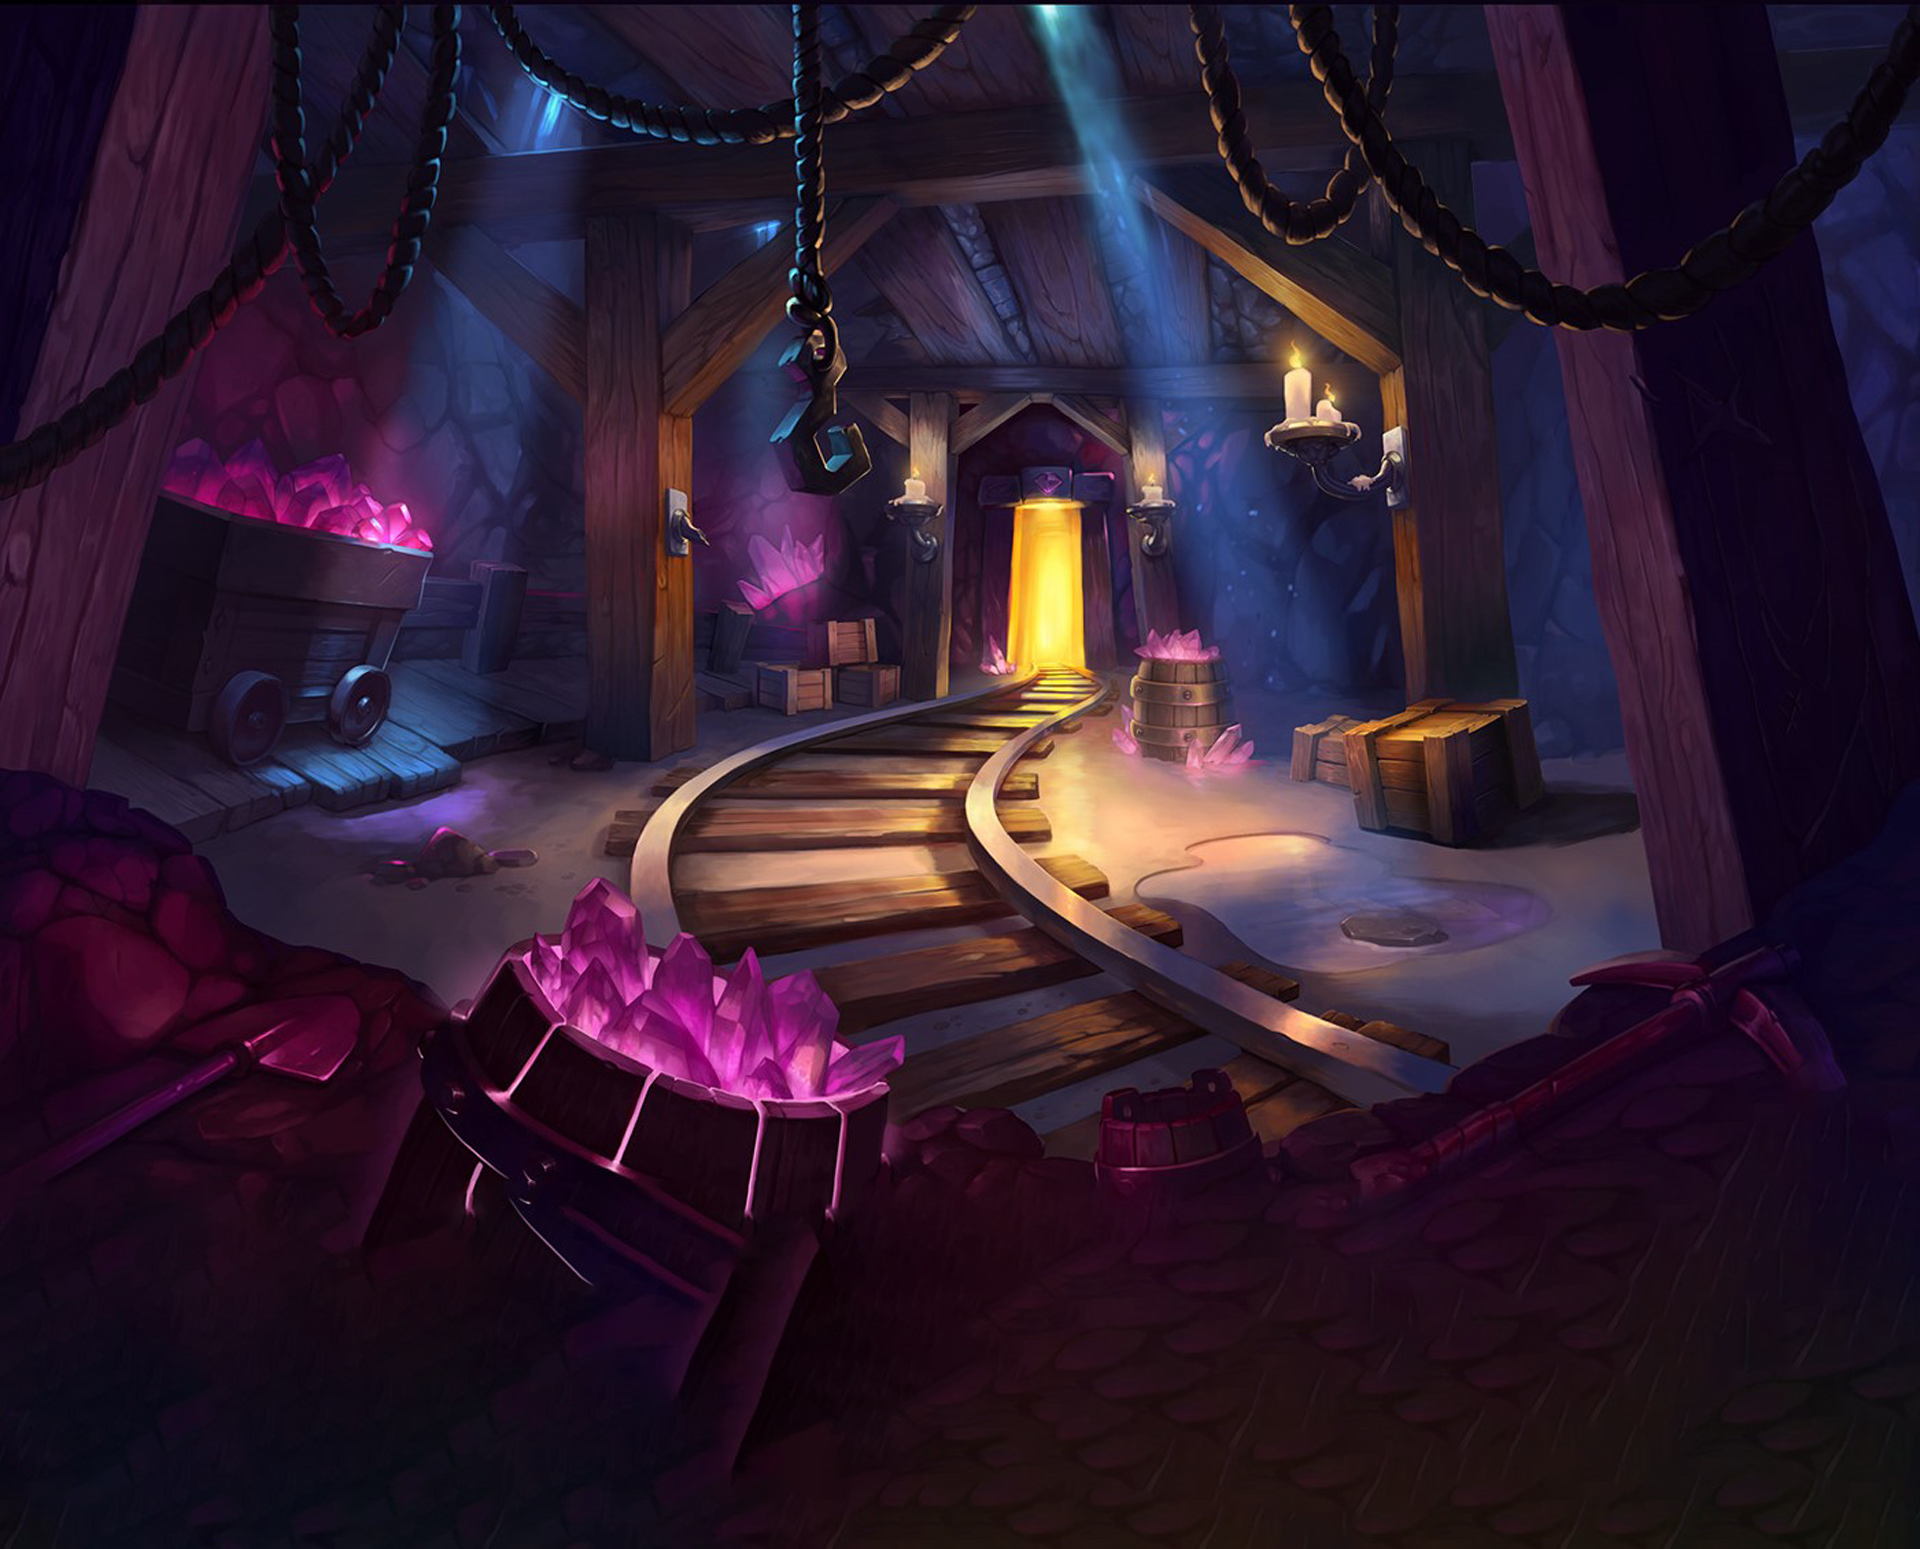
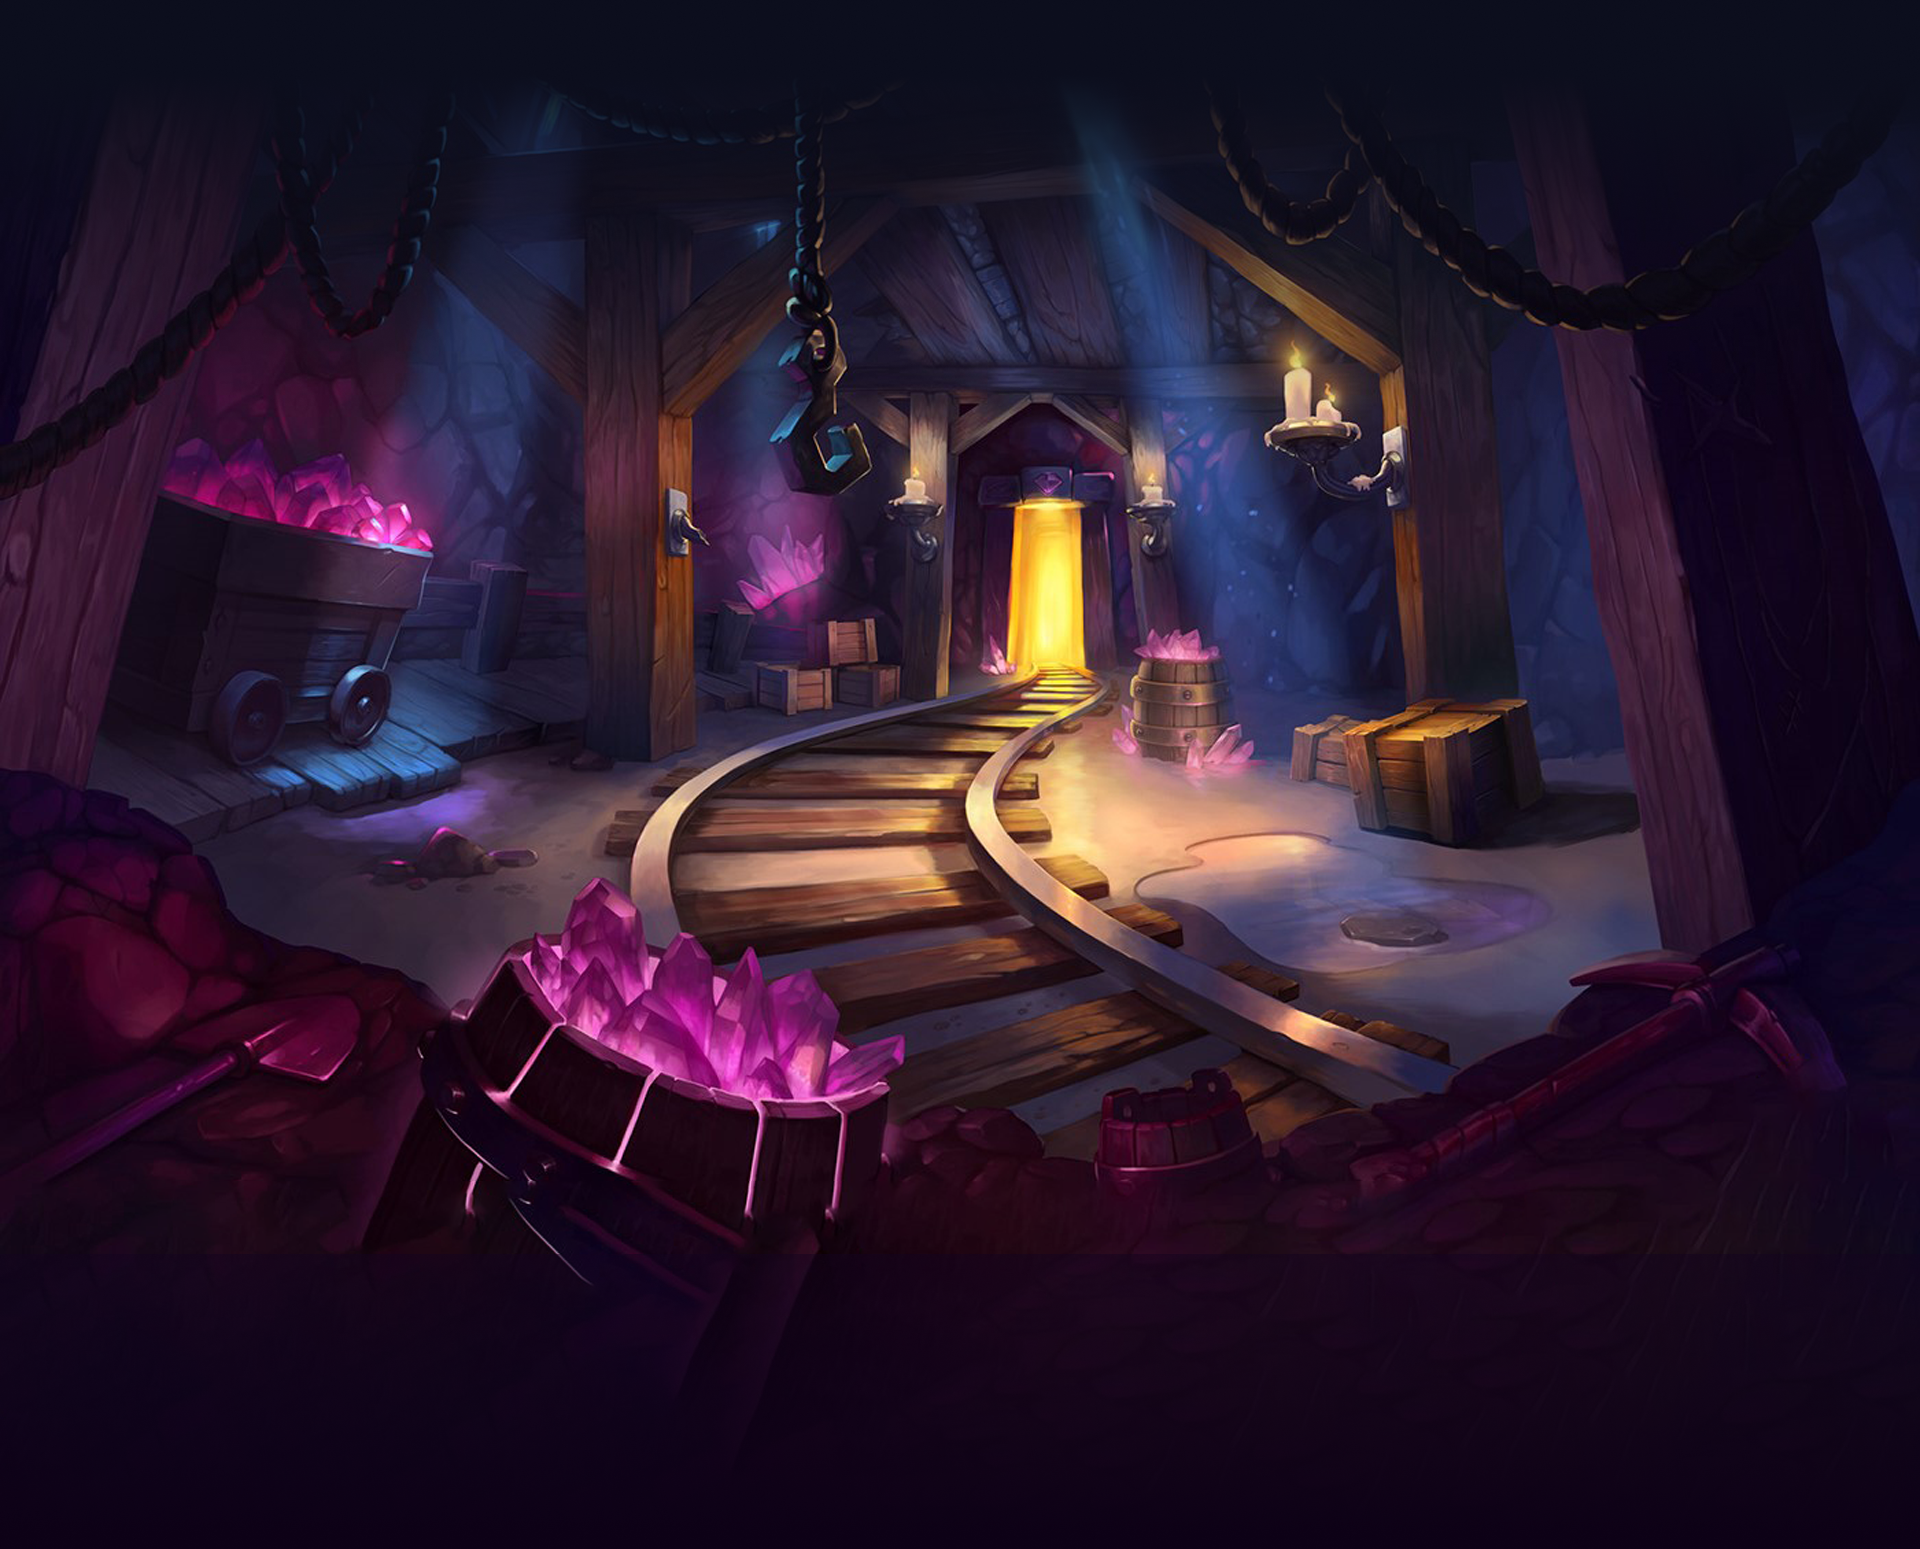
new file:   client/src/assets/ActionButtonVariant.svg 	new file:   client/src/assets/ActionButtonVariantHover.svg 	modified:   client/src/assets/aboutBack.svg 	modified:   client/src/assets/artistsBackground.png 	modified:   client/src/assets/events-background.png 	new file:   client/src/assets/star

diff --git a/client/src/components/NewHomeEvents.jsx b/client/src/components/NewHomeEvents.jsx
@@ -3,6 +3,8 @@ import EventCard from "./EventCard";
 import ActionButtonVariant from "./ActionButtonVariant";
 import Divider from '../assets/divider.png';
 import Skull from "../assets/skull.png";
+import StarL from "../assets/starLeft.png";
+import StarR from "../assets/starRight.png";
 
 const Events = () => {
     return ( 
@@ -10,10 +12,20 @@ const Events = () => {
             style={{backgroundImage:"url("+Background+")"}}
         >
             <div className="absolute top-[-5rem] left-[50%] z-10">
-                <img src={Skull} alt="skull" className=" left-[-50%]" />
+                <img src={Skull} alt="skull" className="relative left-[-50%]" />
             </div>
             <img src={Divider} className="w-full absolute top-0" alt="divider" />
-            <h1 className="mt-52 mb-16 font-grobold font-medium text-6xl tracking-wide text-[#29009C]">Events</h1>
+
+            <div className=" w-full flex justify-center">
+                <div className="flex flex-col justify-start mt-48 mr-[72px] h-[80px] w-[41px]">
+                    <img src={StarL} alt="star" />
+                </div>
+                <h1 className=" mt-52 mb-16 font-grobold font-medium text-6xl tracking-wide text-[#29009C]">Events</h1>
+                <div className="flex flex-col justify-center mt-52 ml-16 h-[80px] w-[41px]">
+                    <img src={StarR} alt="star" />
+                </div>
+            </div>
+            
             <div className="w-full mx-auto flex flex-wrap justify-center gap-10 mb-14">
                 <EventCard name={"Mukul Sharma"} date={"8 Feb"} color="#FFF500"/>
                 <EventCard name={"Ravator"} date={"8 Feb"} color="#FF6B00"/>

diff --git a/client/src/components/Pronites.jsx b/client/src/components/Pronites.jsx
@@ -1,13 +1,25 @@
 import ProniteCard from "./ProniteCard";
 import Background from "../assets/pronite-background.png";
 import ActionButtonVariant from "./ActionButtonVariant";
+import StarL from "../assets/starLeft.png";
+import StarR from "../assets/starRight.png";
 
 const Pronites = () => {
     return ( 
         <div className=" w-full min-h-screen bg-cover bg-no-repeat bg-center p-0 m-0 flex flex-col items-center justify-center"
             style={{backgroundImage:"url("+Background+")"}}
          >
-            <h1 className="mt-52 mb-16 font-grobold font-medium text-6xl tracking-wide text-[#29009C]">Pronites</h1>
+
+            <div className=" w-full flex justify-center">
+                <div className="flex flex-col justify-start mt-48 mr-[72px] h-[80px] w-[41px]">
+                    <img src={StarL} alt="star" />
+                </div>
+                <h1 className=" mt-52 mb-16 font-grobold font-medium text-6xl tracking-wide text-[#29009C]">Pronites</h1>
+                <div className="flex flex-col justify-center mt-52 ml-16 h-[80px] w-[41px]">
+                    <img src={StarR} alt="star" />
+                </div>
+            </div>
+
             <div className="w-fit mx-auto flex flex-wrap justify-center gap-16 mb-14">
                 <ProniteCard name={"Mukul Sharma"} date={"8 Feb"} color="#FFF500"/>
                 <ProniteCard name={"Ravator"} date={"8 Feb"} color="#FF6B00"/>

diff --git a/client/src/components/Footer.jsx b/client/src/components/Footer.jsx
@@ -9,7 +9,7 @@ import youtube from '../assets/Youtube.jpg';
 const Footer = () => {
     return (
         <footer
-            className={` snap-start w-full flex flex-col lg:flex-row gap-10 ${classes.footer} bg-[#1F0036] text-white justify-around items-end px-8 py-8 border-t border-gray-300 z-50`}
+            className={` snap-start w-full flex flex-col lg:flex-row gap-10 ${classes.footer} bg-[#1F0036] text-white justify-around items-center lg:items-end px-8 py-8 border-t border-gray-300 z-50`}
         >
             <div className=" grow flex flex-col gap-4 w-1/8 items-start">
                 <h1 className="text-white font-Outfit text-2xl font-semibold leading-140 tracking-wider">Fest Heads:</h1>

diff --git a/client/src/components/ActionButtonVariant.jsx b/client/src/components/ActionButtonVariant.jsx
@@ -3,7 +3,7 @@ import classes from './actionButton.module.css';
 const ActionButtonVariant = ({ title }) => {
     return (
         <div
-            className={`${classes.actionbutton} cursor-pointer bg-no-repeat w-[18.5rem] h-[4.3125rem] flex font-grobold p-2 items-center justify-center text-white text-2xl hover:text-navButtonYellow z-10 `}
+            className={`${classes.actionbuttonVariant} cursor-pointer bg-no-repeat w-[338px] h-[79px] flex font-grobold p-2 items-center justify-center text-white text-2xl hover:text-navButtonYellow z-10 `}
         >
             <p className="drop-shadow-[0_0_4.8px_#5C2E00]">{title}</p>
         </div>

diff --git a/client/src/components/actionButton.module.css b/client/src/components/actionButton.module.css
@@ -5,10 +5,10 @@
 .actionbutton:hover {
     background-image: url('../assets/newHomePageImages/ActionButtonBackgroundHover.svg')
 }
-.actionbutton-variant {
-    background-image: url('../assets/newHomePageImages/ActionButtonBackground.svg');
+.actionbuttonVariant {
+    background-image: url('../assets/ActionButtonVariant.svg');
 }
 
-.actionbutton-variant:hover {
-    background-image: url('../assets/newHomePageImages/ActionButtonBackgroundHover.svg')
+.actionbuttonVariant:hover {
+    background-image: url('../assets/ActionButtonVariantHover.svg')
 }

diff --git a/client/src/components/Cards.module.css b/client/src/components/Cards.module.css
@@ -1,10 +1,7 @@
 .proniteCard{
     background: url("../assets/pronite-card.png");
 }
-.proniteCard:hover{
-    background: url("../assets/pronite-card-hover.png");
-}
 .eventCard{
     background: url("../assets/events-card.png");
-    
+
 }
